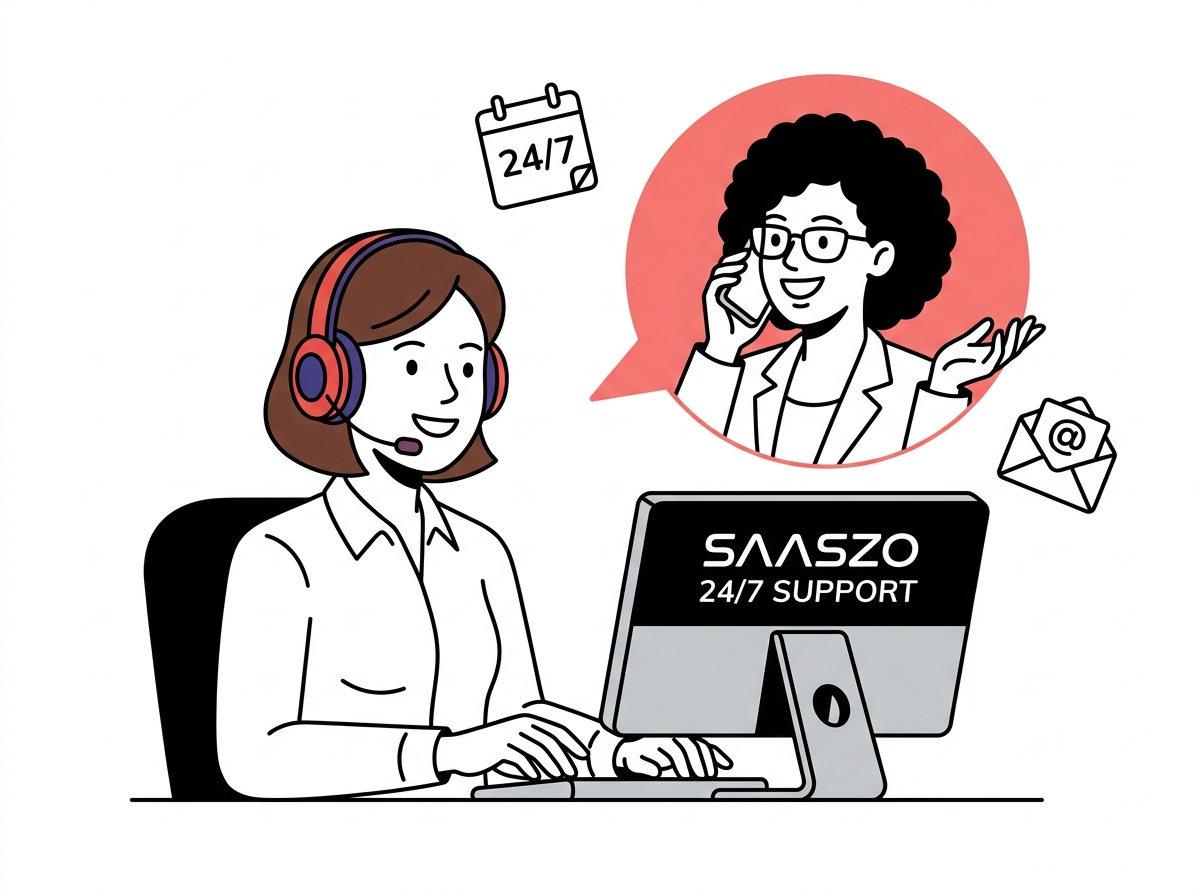
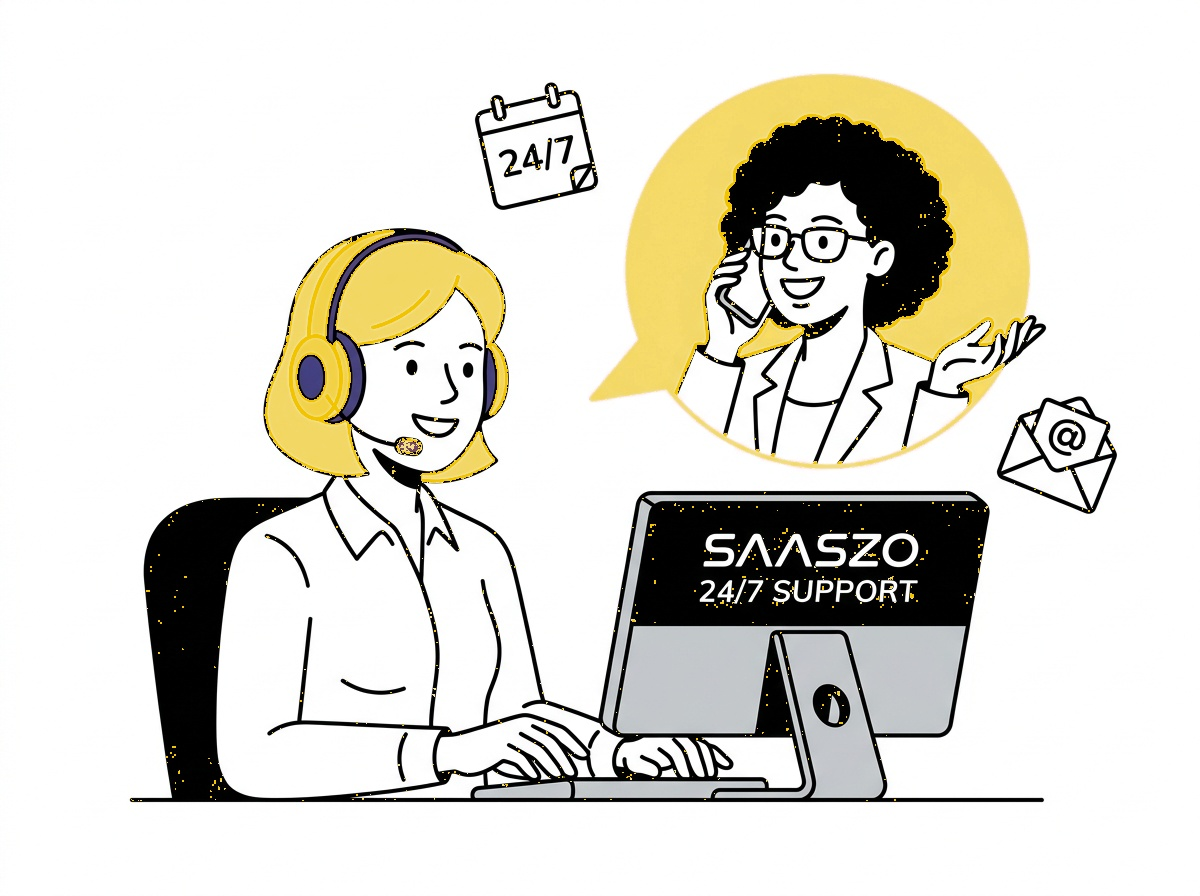
style(home): replace red accent colors with bright light yellow across illustrations and UI components

diff --git a/apps/home/src/components/BookDemoSection.tsx b/apps/home/src/components/BookDemoSection.tsx
@@ -58,7 +58,7 @@ export function BookDemoSection() {
                 <div className="grid grid-cols-1 sm:grid-cols-2 gap-4">
                   <div>
                     <label className="block text-xs font-bold text-slate-700 mb-1.5">
-                      Name<span className="text-red-500">*</span>
+                      Name<span className="text-amber-500">*</span>
                     </label>
                     <input
                       type="text"
@@ -66,13 +66,13 @@ export function BookDemoSection() {
                       placeholder="e.g. Rahul Sharma"
                       value={formData.name}
                       onChange={(e) => setFormData({ ...formData, name: e.target.value })}
-                      className="w-full px-4 py-3 rounded-xl bg-white border border-slate-200 text-sm text-slate-900 placeholder:text-slate-400 focus:outline-none focus:ring-2 focus:ring-red-500 focus:border-red-500 shadow-xs"
+                      className="w-full px-4 py-3 rounded-xl bg-white border border-slate-200 text-sm text-slate-900 placeholder:text-slate-400 focus:outline-none focus:ring-2 focus:ring-yellow-400 focus:border-yellow-400 shadow-xs"
                     />
                   </div>
 
                   <div>
                     <label className="block text-xs font-bold text-slate-700 mb-1.5">
-                      Email<span className="text-red-500">*</span>
+                      Email<span className="text-amber-500">*</span>
                     </label>
                     <input
                       type="email"
@@ -80,7 +80,7 @@ export function BookDemoSection() {
                       placeholder="e.g. rahul@shreeganesh.com"
                       value={formData.email}
                       onChange={(e) => setFormData({ ...formData, email: e.target.value })}
-                      className="w-full px-4 py-3 rounded-xl bg-white border border-slate-200 text-sm text-slate-900 placeholder:text-slate-400 focus:outline-none focus:ring-2 focus:ring-red-500 focus:border-red-500 shadow-xs"
+                      className="w-full px-4 py-3 rounded-xl bg-white border border-slate-200 text-sm text-slate-900 placeholder:text-slate-400 focus:outline-none focus:ring-2 focus:ring-yellow-400 focus:border-yellow-400 shadow-xs"
                     />
                   </div>
                 </div>
@@ -88,7 +88,7 @@ export function BookDemoSection() {
                 <div className="grid grid-cols-1 sm:grid-cols-2 gap-4">
                   <div>
                     <label className="block text-xs font-bold text-slate-700 mb-1.5">
-                      Phone number<span className="text-red-500">*</span>
+                      Phone number<span className="text-amber-500">*</span>
                     </label>
                     <div className="flex">
                       <span className="inline-flex items-center px-3.5 rounded-l-xl border border-r-0 border-slate-200 bg-slate-100 text-xs font-bold text-slate-600">
@@ -100,14 +100,14 @@ export function BookDemoSection() {
                         placeholder="98765 43210"
                         value={formData.phone}
                         onChange={(e) => setFormData({ ...formData, phone: e.target.value })}
-                        className="w-full px-4 py-3 rounded-r-xl bg-white border border-slate-200 text-sm text-slate-900 placeholder:text-slate-400 focus:outline-none focus:ring-2 focus:ring-red-500 focus:border-red-500 shadow-xs"
+                        className="w-full px-4 py-3 rounded-r-xl bg-white border border-slate-200 text-sm text-slate-900 placeholder:text-slate-400 focus:outline-none focus:ring-2 focus:ring-yellow-400 focus:border-yellow-400 shadow-xs"
                       />
                     </div>
                   </div>
 
                   <div>
                     <label className="block text-xs font-bold text-slate-700 mb-1.5">
-                      City<span className="text-red-500">*</span>
+                      City<span className="text-amber-500">*</span>
                     </label>
                     <input
                       type="text"
@@ -115,14 +115,14 @@ export function BookDemoSection() {
                       placeholder="Start typing your city"
                       value={formData.city}
                       onChange={(e) => setFormData({ ...formData, city: e.target.value })}
-                      className="w-full px-4 py-3 rounded-xl bg-white border border-slate-200 text-sm text-slate-900 placeholder:text-slate-400 focus:outline-none focus:ring-2 focus:ring-red-500 focus:border-red-500 shadow-xs"
+                      className="w-full px-4 py-3 rounded-xl bg-white border border-slate-200 text-sm text-slate-900 placeholder:text-slate-400 focus:outline-none focus:ring-2 focus:ring-yellow-400 focus:border-yellow-400 shadow-xs"
                     />
                   </div>
                 </div>
 
                 <div>
                   <label className="block text-xs font-bold text-slate-700 mb-1.5">
-                    Business Name<span className="text-red-500">*</span>
+                    Business Name<span className="text-amber-500">*</span>
                   </label>
                   <input
                     type="text"
@@ -130,14 +130,14 @@ export function BookDemoSection() {
                     placeholder="e.g. Shree Ganesh Supermarket"
                     value={formData.businessName}
                     onChange={(e) => setFormData({ ...formData, businessName: e.target.value })}
-                    className="w-full px-4 py-3 rounded-xl bg-white border border-slate-200 text-sm text-slate-900 placeholder:text-slate-400 focus:outline-none focus:ring-2 focus:ring-red-500 focus:border-red-500 shadow-xs"
+                    className="w-full px-4 py-3 rounded-xl bg-white border border-slate-200 text-sm text-slate-900 placeholder:text-slate-400 focus:outline-none focus:ring-2 focus:ring-yellow-400 focus:border-yellow-400 shadow-xs"
                   />
                 </div>
 
                 {/* Product Interest Pills */}
                 <div>
                   <label className="block text-xs font-bold text-slate-700 mb-2">
-                    Which product are you interested in?<span className="text-red-500">*</span>
+                    Which product are you interested in?<span className="text-amber-500">*</span>
                   </label>
                   <div className="flex flex-wrap gap-2">
                     {products.map((p) => (
@@ -160,7 +160,7 @@ export function BookDemoSection() {
                 <div className="pt-2">
                   <button
                     type="submit"
-                    className="w-full py-4 rounded-xl bg-red-600 hover:bg-red-700 text-white font-black text-sm tracking-wide shadow-lg shadow-red-600/30 transition-all duration-200 cursor-pointer"
+                    className="w-full py-4 rounded-xl bg-yellow-400 hover:bg-yellow-300 text-slate-950 font-black text-sm tracking-wide shadow-lg shadow-yellow-400/30 transition-all duration-200 cursor-pointer"
                   >
                     Submit
                   </button>
@@ -181,7 +181,7 @@ export function BookDemoSection() {
               />
             </div>
             <div className="mt-4 flex items-center gap-2 text-xs font-bold text-slate-600">
-              <Headphones className="w-4 h-4 text-red-600" />
+              <Headphones className="w-4 h-4 text-amber-500" />
               <span>Dedicated 24/7 Onboarding &amp; Training Support</span>
             </div>
           </div>

diff --git a/apps/home/src/components/MinimalFooter.tsx b/apps/home/src/components/MinimalFooter.tsx
@@ -18,8 +18,8 @@ export function MinimalFooter() {
           {/* Col 1: Brand & Identity */}
           <div className="col-span-2 space-y-4">
             <div className="flex items-center gap-2 font-black text-slate-950 text-xl tracking-tight">
-              <span className="w-3 h-3 rounded-full bg-red-600 inline-block" />
-              SAASZO <span className="text-red-600 font-bold">POS</span>
+              <span className="w-3 h-3 rounded-full bg-yellow-400 inline-block" />
+              SAASZO <span className="text-amber-500 font-bold">POS</span>
             </div>
             <p className="text-slate-500 leading-relaxed max-w-sm text-xs">
               Modern, offline-first GST Invoicing, Point of Sale, and smart inventory management for 1,50,000+ Indian retailers, restaurants, and wholesalers.
@@ -36,11 +36,11 @@ export function MinimalFooter() {
               Product
             </div>
             <ul className="space-y-2.5">
-              <li><a href="#features" className="hover:text-red-600 transition-colors">Counter POS</a></li>
-              <li><a href="#features" className="hover:text-red-600 transition-colors">100% Offline SQLite</a></li>
-              <li><a href="#features" className="hover:text-red-600 transition-colors">Thermal Printing (ESC/POS)</a></li>
-              <li><a href="#features" className="hover:text-red-600 transition-colors">Barcode Scanning</a></li>
-              <li><a href="#comparison" className="hover:text-red-600 transition-colors">Feature Comparison</a></li>
+              <li><a href="#features" className="hover:text-amber-600 transition-colors">Counter POS</a></li>
+              <li><a href="#features" className="hover:text-amber-600 transition-colors">100% Offline SQLite</a></li>
+              <li><a href="#features" className="hover:text-amber-600 transition-colors">Thermal Printing (ESC/POS)</a></li>
+              <li><a href="#features" className="hover:text-amber-600 transition-colors">Barcode Scanning</a></li>
+              <li><a href="#comparison" className="hover:text-amber-600 transition-colors">Feature Comparison</a></li>
             </ul>
           </div>
 
@@ -50,11 +50,11 @@ export function MinimalFooter() {
               Solutions
             </div>
             <ul className="space-y-2.5">
-              <li><a href="#solutions" className="hover:text-red-600 transition-colors">Retail &amp; Supermarket</a></li>
-              <li><a href="#solutions" className="hover:text-red-600 transition-colors">Wholesale &amp; Distribution</a></li>
-              <li><a href="#solutions" className="hover:text-red-600 transition-colors">Pharmacy &amp; Chemist</a></li>
-              <li><a href="#solutions" className="hover:text-red-600 transition-colors">Electronics &amp; Hardware</a></li>
-              <li><a href="#solutions" className="hover:text-red-600 transition-colors">Services &amp; Agencies</a></li>
+              <li><a href="#solutions" className="hover:text-amber-600 transition-colors">Retail &amp; Supermarket</a></li>
+              <li><a href="#solutions" className="hover:text-amber-600 transition-colors">Wholesale &amp; Distribution</a></li>
+              <li><a href="#solutions" className="hover:text-amber-600 transition-colors">Pharmacy &amp; Chemist</a></li>
+              <li><a href="#solutions" className="hover:text-amber-600 transition-colors">Electronics &amp; Hardware</a></li>
+              <li><a href="#solutions" className="hover:text-amber-600 transition-colors">Services &amp; Agencies</a></li>
             </ul>
           </div>
 
@@ -65,21 +65,21 @@ export function MinimalFooter() {
             </div>
             <ul className="space-y-3">
               <li>
-                <a href="tel:+919104369797" className="flex items-center gap-2 text-slate-900 font-bold hover:text-red-600 transition-colors">
-                  <Phone className="w-3.5 h-3.5 text-red-600" />
+                <a href="tel:+919104369797" className="flex items-center gap-2 text-slate-900 font-bold hover:text-amber-600 transition-colors">
+                  <Phone className="w-3.5 h-3.5 text-amber-500" />
                   <span>+91 91043 69797</span>
                 </a>
               </li>
               <li>
-                <a href="mailto:getposs@saaszo.in" className="flex items-center gap-2 text-slate-600 hover:text-red-600 transition-colors">
-                  <Mail className="w-3.5 h-3.5 text-red-600" />
+                <a href="mailto:getposs@saaszo.in" className="flex items-center gap-2 text-slate-600 hover:text-amber-600 transition-colors">
+                  <Mail className="w-3.5 h-3.5 text-amber-500" />
                   <span>getposs@saaszo.in</span>
                 </a>
               </li>
               <li className="pt-2">
                 <a
                   href="#demo"
-                  className="inline-block px-4 py-2 rounded-xl bg-slate-900 text-white font-bold text-xs hover:bg-red-600 transition-colors shadow-xs"
+                  className="inline-block px-4 py-2 rounded-xl bg-yellow-400 text-slate-950 font-black text-xs hover:bg-yellow-300 transition-colors shadow-xs"
                 >
                   Take a Free Demo
                 </a>

diff --git a/apps/home/src/components/BrandMarquee.tsx b/apps/home/src/components/BrandMarquee.tsx
@@ -25,13 +25,13 @@ export function BrandMarquee() {
   return (
     <section className="py-20 md:py-28 bg-slate-50/60 overflow-hidden border-y border-slate-200/70">
       <div className="max-w-7xl mx-auto px-4 sm:px-6 lg:px-8 text-center">
-        <div className="inline-block text-xs font-black tracking-widest text-red-600 uppercase mb-3">
+        <div className="inline-block text-xs font-black tracking-widest text-amber-500 uppercase mb-3">
           TRUSTED BY THE BEST
         </div>
 
         <h2 className="text-3xl sm:text-5xl font-black text-slate-950 tracking-tight leading-tight">
           Trusted by the biggest names{" "}
-          <span className="text-red-600 block sm:inline">in the business</span>
+          <span className="text-amber-500 block sm:inline">in the business</span>
         </h2>
         <p className="mt-4 text-slate-600 max-w-2xl mx-auto text-base sm:text-lg">
           From single checkout retail shops to multi-outlet enterprise chains processing thousands of bills daily.
@@ -42,13 +42,13 @@ export function BrandMarquee() {
       <div className="mt-14 max-w-6xl mx-auto px-4 relative">
         {/* Center Glowing SaaSzo Badge */}
         <div className="relative flex justify-center mb-8">
-          <div className="relative inline-flex items-center gap-3 px-8 py-4 rounded-full bg-white border-2 border-red-500 shadow-2xl shadow-red-500/20 z-10">
-            <div className="w-8 h-8 rounded-full bg-red-600 flex items-center justify-center text-white font-black text-sm shadow-md">
+          <div className="relative inline-flex items-center gap-3 px-8 py-4 rounded-full bg-white border-2 border-yellow-400 shadow-2xl shadow-yellow-400/20 z-10">
+            <div className="w-8 h-8 rounded-full bg-yellow-400 flex items-center justify-center text-slate-950 font-black text-sm shadow-md">
               S
             </div>
             <div className="text-left">
               <div className="text-lg font-black tracking-tight text-slate-950">
-                SAASZO <span className="text-red-600">POS</span>
+                SAASZO <span className="text-amber-500">POS</span>
               </div>
               <div className="text-[10px] font-bold text-slate-400 uppercase tracking-widest">
                 Core Engine
@@ -62,10 +62,10 @@ export function BrandMarquee() {
           {brandsRow1.map((b) => (
             <div
               key={b.name}
-              className="flex items-center gap-3 px-5 py-3 rounded-full bg-white border border-slate-200 shadow-xs hover:border-red-300 hover:shadow-md transition-all duration-200 group cursor-default"
+              className="flex items-center gap-3 px-5 py-3 rounded-full bg-white border border-slate-200 shadow-xs hover:border-yellow-400 hover:shadow-md transition-all duration-200 group cursor-default"
             >
-              <div className="w-2.5 h-2.5 rounded-full bg-red-500 group-hover:scale-125 transition-transform" />
-              <div className="text-sm font-bold text-slate-900 group-hover:text-red-600 transition-colors">
+              <div className="w-2.5 h-2.5 rounded-full bg-yellow-400 group-hover:scale-125 transition-transform" />
+              <div className="text-sm font-bold text-slate-900 group-hover:text-amber-600 transition-colors">
                 {b.name}
               </div>
               <span className="text-slate-300 font-light">|</span>
@@ -82,10 +82,10 @@ export function BrandMarquee() {
           {brandsRow2.map((b) => (
             <div
               key={b.name}
-              className="flex items-center gap-3 px-5 py-3 rounded-full bg-white border border-slate-200 shadow-xs hover:border-red-300 hover:shadow-md transition-all duration-200 group cursor-default"
+              className="flex items-center gap-3 px-5 py-3 rounded-full bg-white border border-slate-200 shadow-xs hover:border-yellow-400 hover:shadow-md transition-all duration-200 group cursor-default"
             >
               <div className="w-2.5 h-2.5 rounded-full bg-emerald-500 group-hover:scale-125 transition-transform" />
-              <div className="text-sm font-bold text-slate-900 group-hover:text-red-600 transition-colors">
+              <div className="text-sm font-bold text-slate-900 group-hover:text-amber-600 transition-colors">
                 {b.name}
               </div>
               <span className="text-slate-300 font-light">|</span>

diff --git a/apps/home/src/components/CustomerStories.tsx b/apps/home/src/components/CustomerStories.tsx
@@ -55,7 +55,7 @@ export function CustomerStories() {
         <div className="text-center max-w-3xl mx-auto">
           <h2 className="text-3xl sm:text-5xl font-black text-slate-950 tracking-tight leading-tight">
             Businesses that switched{" "}
-            <span className="text-red-600 block sm:inline">never looked back</span>
+            <span className="text-amber-500 block sm:inline">never looked back</span>
           </h2>
           <p className="mt-4 text-base sm:text-lg text-slate-600">
             Real stories from business owners who transformed their counter billing and cash flow with SaaSzo.
@@ -74,8 +74,8 @@ export function CustomerStories() {
                 {/* Top Video Controls Bar */}
                 <div className="flex items-center justify-between z-10">
                   <div className="flex items-center gap-1.5">
-                    <div className="w-2 h-2 rounded-full bg-red-500 animate-pulse" />
-                    <span className="text-[10px] font-bold uppercase tracking-wider text-red-400">
+                    <div className="w-2 h-2 rounded-full bg-yellow-400 animate-pulse" />
+                    <span className="text-[10px] font-bold uppercase tracking-wider text-amber-300">
                       Story #{idx + 1}
                     </span>
                   </div>
@@ -89,12 +89,12 @@ export function CustomerStories() {
                 <div className="my-auto flex flex-col items-center justify-center z-10">
                   <button
                     onClick={() => setPlayingIndex(isPlaying ? null : idx)}
-                    className="w-14 h-14 rounded-full bg-white/20 backdrop-blur-md border border-white/40 flex items-center justify-center text-white shadow-2xl group-hover:scale-110 group-hover:bg-red-600 group-hover:border-red-500 transition-all duration-300 cursor-pointer"
+                    className="w-14 h-14 rounded-full bg-white/20 backdrop-blur-md border border-white/40 flex items-center justify-center text-white shadow-2xl group-hover:scale-110 group-hover:bg-yellow-400 group-hover:text-slate-950 group-hover:border-yellow-400 transition-all duration-300 cursor-pointer"
                   >
                     {isPlaying ? (
-                      <Pause className="w-6 h-6 fill-white" />
+                      <Pause className="w-6 h-6 fill-current" />
                     ) : (
-                      <Play className="w-6 h-6 fill-white ml-0.5" />
+                      <Play className="w-6 h-6 fill-current ml-0.5" />
                     )}
                   </button>
                   <span className="text-[11px] font-bold text-white/80 mt-3 px-3 py-1 rounded-full bg-black/40 backdrop-blur-sm border border-white/10">
@@ -107,7 +107,7 @@ export function CustomerStories() {
                   <div className="text-xs font-bold text-white line-clamp-2 leading-snug">
                     {s.title}
                   </div>
-                  <div className="text-[10px] text-red-300 mt-1 font-semibold">
+                  <div className="text-[10px] text-amber-300 mt-1 font-semibold">
                     {s.subtitle}
                   </div>
                   <p className="text-[10px] text-slate-300 mt-2 line-clamp-2 italic">

diff --git a/apps/home/src/components/TrustAtScale.tsx b/apps/home/src/components/TrustAtScale.tsx
@@ -11,13 +11,13 @@ export function TrustAtScale() {
         <div className="grid grid-cols-1 lg:grid-cols-12 gap-12 items-center">
           {/* Left Column: Typography & Narrative */}
           <div className="lg:col-span-6 space-y-6">
-            <div className="inline-block text-xs font-black tracking-widest text-red-600 uppercase">
+            <div className="inline-block text-xs font-black tracking-widest text-amber-500 uppercase">
               TRUST AT SCALE
             </div>
 
             <h2 className="text-3xl sm:text-5xl lg:text-6xl font-black text-slate-950 tracking-tight leading-[1.15]">
               Trust earned across{" "}
-              <span className="text-red-600">1,50,000+ businesses</span>
+              <span className="text-amber-500">1,50,000+ businesses</span>
             </h2>
 
             <p className="text-base sm:text-xl text-slate-600 font-normal leading-relaxed">
@@ -27,8 +27,8 @@ export function TrustAtScale() {
             {/* Trust Pillars */}
             <div className="grid grid-cols-1 sm:grid-cols-2 gap-4 pt-4">
               <div className="flex items-start gap-3 p-4 rounded-2xl bg-slate-50 border border-slate-200/80">
-                <div className="p-2 rounded-xl bg-red-50 text-red-600">
-                  <ShieldCheck className="w-5 h-5" />
+                <div className="p-2 rounded-xl bg-yellow-100 text-slate-900">
+                  <ShieldCheck className="w-5 h-5 text-amber-500" />
                 </div>
                 <div>
                   <div className="text-sm font-bold text-slate-900">99.99% Offline Uptime</div>
@@ -37,8 +37,8 @@ export function TrustAtScale() {
               </div>
 
               <div className="flex items-start gap-3 p-4 rounded-2xl bg-slate-50 border border-slate-200/80">
-                <div className="p-2 rounded-xl bg-red-50 text-red-600">
-                  <TrendingUp className="w-5 h-5" />
+                <div className="p-2 rounded-xl bg-yellow-100 text-slate-900">
+                  <TrendingUp className="w-5 h-5 text-amber-500" />
                 </div>
                 <div>
                   <div className="text-sm font-bold text-slate-900">₹500+ Cr Invoiced</div>
@@ -59,8 +59,8 @@ export function TrustAtScale() {
                 className="object-contain p-2 transition-transform duration-500 group-hover:scale-105"
               />
               {/* Floating Verified Pill */}
-              <div className="absolute top-4 right-4 bg-white/95 backdrop-blur-md px-3.5 py-1.5 rounded-full border border-red-200 shadow-md flex items-center gap-1.5 text-xs font-bold text-red-600">
-                <CheckCircle2 className="w-4 h-4 text-red-600" />
+              <div className="absolute top-4 right-4 bg-yellow-400 text-slate-950 px-3.5 py-1.5 rounded-full border border-yellow-300 shadow-md flex items-center gap-1.5 text-xs font-black">
+                <CheckCircle2 className="w-4 h-4 text-slate-950" />
                 <span>Verified Retail Partner</span>
               </div>
             </div>

diff --git a/apps/home/src/components/AppShowcaseHero.tsx b/apps/home/src/components/AppShowcaseHero.tsx
@@ -177,7 +177,7 @@ export function AppShowcaseHero() {
                     onClick={() => setActiveIllustration("lineart-counter")}
                     className={`px-2.5 py-1 rounded-lg transition-all cursor-pointer ${
                       activeIllustration === "lineart-counter"
-                        ? "bg-red-600 text-white shadow-xs font-bold"
+                        ? "bg-yellow-400 text-slate-950 shadow-xs font-black"
                         : "text-slate-600 hover:text-slate-900"
                     }`}
                   >

diff --git a/apps/home/src/app/page.tsx b/apps/home/src/app/page.tsx
@@ -75,7 +75,7 @@ const JSON_LD_SCHEMA = {
 
 export default function Home() {
   return (
-    <div className="min-h-screen bg-white text-slate-900 selection:bg-red-600 selection:text-white antialiased">
+    <div className="min-h-screen bg-white text-slate-900 selection:bg-yellow-400 selection:text-slate-950 antialiased">
       {/* Structured SEO Schema */}
       <script
         type="application/ld+json"
